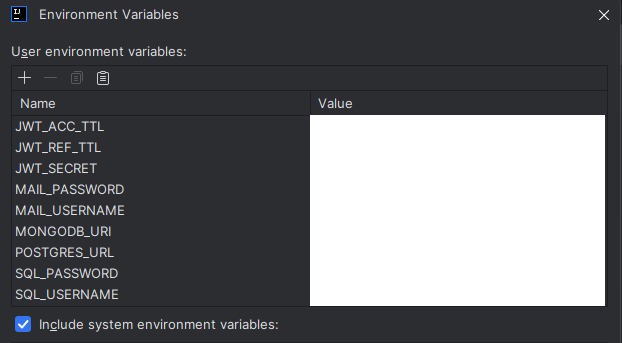
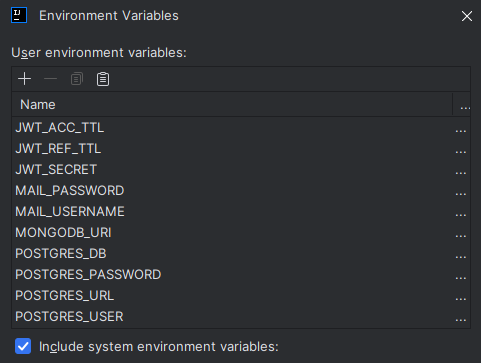
added postAuthorize, added ExceptionHandler of AccessDeniedException, fixed README.md

diff --git a/src/test/java/org/project/shopservice/controller/OrderControllerTest.java b/src/test/java/org/project/shopservice/controller/OrderControllerTest.java
@@ -33,7 +33,6 @@ import java.util.List;
 import java.util.Optional;
 import java.util.stream.Stream;
 
-import static org.junit.jupiter.api.Assertions.assertNotNull;
 import static org.mockito.Mockito.*;
 import static org.springframework.test.web.servlet.request.MockMvcRequestBuilders.*;
 import static org.springframework.test.web.servlet.result.MockMvcResultMatchers.jsonPath;
@@ -57,19 +56,13 @@ class OrderControllerTest {
 	private PasswordEncoder passwordEncoder;
 
 	private Instant now;
-	private Product product;
 	private OrderResponseDto dto;
 	private List<OrderResponseDto> orders;
 
 	@BeforeEach
 	void init() {
 		now = Instant.now();
-		product = Product.builder()
-				.id("0x1")
-				.type("test")
-				.category("testing")
-				.price(BigDecimal.valueOf(100))
-				.build();
+
 		dto = OrderResponseDto.builder()
 				.id(1L)
 				.whose("tester test")
@@ -177,92 +170,6 @@ class OrderControllerTest {
 
 	@Test
 	@SneakyThrows
-	void testGetOrder_200ExpectingIsOk_NotNullBody() {
-		when(orderService.findOrderById(eq(1L)))
-				.thenReturn(Optional.of(dto));
-		mockMvc.perform(get("/orders/{id}", 1))
-				.andExpect(status().isOk())
-				.andExpect(jsonPath("$").exists())
-				.andExpect(jsonPath("$").isNotEmpty())
-				.andExpect(jsonPath("$.id").value("1"))
-				.andExpect(jsonPath("$.whose").value("tester test"))
-				.andExpect(jsonPath("$.email").value("test@test.com"))
-				.andExpect(jsonPath("$.address").value("test address"))
-				.andExpect(jsonPath("$.total_price").value(600))
-				.andExpect(jsonPath("$.status").value("CREATED"))
-				.andExpect(jsonPath("$.items[0].amount").value(6))
-				.andExpect(jsonPath("$.items[0].productId").value("0x1"));
-	}
-	@Test
-	@SneakyThrows
-	void testGetOrder_200ExpectingIsOk_NullBody() {
-		when(orderService.findOrderById(eq(2L)))
-				.thenReturn(Optional.of(dto));
-		mockMvc.perform(get("/orders/{id}", 2))
-				.andExpect(status().isOk())
-				.andExpect(jsonPath("$").exists());
-		verify(orderService).findOrderById(eq(2L));
-		assertNotNull(orderService.findOrderById(2L));
-	}
-
-	@Test
-	@SneakyThrows
-	void testUpdateOrder_200ExpectingIsOk_NotNullBody() {
-		UpdateOrderDto updateOrderDto = UpdateOrderDto.builder()
-				.address("test new")
-				.build();
-		when(orderService.updateOrder(eq(1L), any(UpdateOrderDto.class)))
-				.thenReturn(Optional.of(dto.toBuilder().status("UPDATED").address(updateOrderDto.address()).build()));
-		mockMvc.perform(patch("/orders/{id}", 1)
-						.contentType(MediaType.APPLICATION_JSON)
-						.content("""
-								{
-									"address": "test new"
-								}
-								""")
-				).andExpect(status().isOk())
-				.andExpect(jsonPath("$").exists())
-				.andExpect(jsonPath("$").isNotEmpty())
-				.andExpect(jsonPath("$.id").value("1"))
-				.andExpect(jsonPath("$.whose").value("tester test"))
-				.andExpect(jsonPath("$.email").value("test@test.com"))
-				.andExpect(jsonPath("$.address").value("test new"))
-				.andExpect(jsonPath("$.total_price").value(600))
-				.andExpect(jsonPath("$.status").value("UPDATED"))
-				.andExpect(jsonPath("$.items[0].amount").value(6))
-				.andExpect(jsonPath("$.items[0].productId").value(product.getId()));
-		verify(orderService).updateOrder(eq(1L), any(UpdateOrderDto.class));
-	}
-	@Test
-	@SneakyThrows
-	void testUpdateOrder_200ExpectingIsOk_NothingChanged() {
-		when(orderService.updateOrder(eq(1L), any(UpdateOrderDto.class)))
-				.thenReturn(Optional.of(dto));
-		mockMvc.perform(patch("/orders/{id}", 1)
-						.contentType(MediaType.APPLICATION_JSON)
-						.content("""
-								{
-									"address": "",
-									"onDelete": [],
-									"updateItems": []
-								}
-								""")
-				).andExpect(status().isOk())
-				.andExpect(jsonPath("$").exists())
-				.andExpect(jsonPath("$").isNotEmpty())
-				.andExpect(jsonPath("$.id").value(dto.id()))
-				.andExpect(jsonPath("$.whose").value(dto.whose()))
-				.andExpect(jsonPath("$.email").value(dto.email()))
-				.andExpect(jsonPath("$.address").value(dto.address()))
-				.andExpect(jsonPath("$.total_price").value(dto.total_price()))
-				.andExpect(jsonPath("$.status").value(dto.status()))
-				.andExpect(jsonPath("$.items[0].amount").value(dto.items().get(0).amount()))
-				.andExpect(jsonPath("$.items[0].productId").value(dto.items().get(0).productId()));
-		verify(orderService).updateOrder(eq(1L), any(UpdateOrderDto.class));
-	}
-
-	@Test
-	@SneakyThrows
 	void testUpdateOrder_ExpectingNoSuchElementException(){
 		mockMvc.perform(patch("/orders/{id}", 2)
 				.contentType(MediaType.APPLICATION_JSON)
@@ -283,5 +190,37 @@ class OrderControllerTest {
 		mockMvc.perform(delete("/orders/{id}", 1))
 				.andExpect(status().isNoContent());
 		verify(orderService).deleteOrderById(eq(1L));
+	}
+
+	@Test
+	@SneakyThrows
+	void testGetOrder_403ExpectingForbidden_AccessDeniedException() {
+		when(orderService.findOrderById(eq(1L)))
+				.thenReturn(Optional.of(OrderResponseDto.builder().email("test").build()));
+		mockMvc.perform(get("/orders/{id}", 1))
+				.andExpect(status().isForbidden())
+				.andExpect(jsonPath("$").exists())
+				.andExpect(jsonPath("$.exceptionType").value("AccessDeniedException"))
+		;
+	}
+
+	@Test
+	@SneakyThrows
+	void testUpdateOrder_403ExpectingForbidden_AccessDeniedException() {
+
+		when(orderService.updateOrder(eq(1L), any(UpdateOrderDto.class)))
+				.thenReturn(Optional.of(OrderResponseDto.builder().email("test").build()));
+
+		mockMvc.perform(patch("/orders/{id}", 1)
+						.contentType(MediaType.APPLICATION_JSON)
+						.content("""
+								{
+									"address": "test new"
+								}
+								""")
+				).andExpect(status().isForbidden())
+				.andExpect(jsonPath("$").exists())
+				.andExpect(jsonPath("$.exceptionType").value("AccessDeniedException"));
+		verify(orderService).updateOrder(eq(1L), any(UpdateOrderDto.class));
 	}
 }

diff --git a/src/main/java/org/project/shopservice/controller/ExceptionAdviser.java b/src/main/java/org/project/shopservice/controller/ExceptionAdviser.java
@@ -5,6 +5,7 @@ import org.project.shopservice.dtos.onResponse.ErrorDto;
 import org.project.shopservice.exceptions.UserAlreadyExistException;
 import org.springframework.http.HttpStatus;
 import org.springframework.http.ResponseEntity;
+import org.springframework.security.access.AccessDeniedException;
 import org.springframework.security.core.userdetails.UsernameNotFoundException;
 import org.springframework.validation.FieldError;
 import org.springframework.web.bind.MethodArgumentNotValidException;
@@ -19,15 +20,16 @@ import java.util.NoSuchElementException;
 @RestControllerAdvice
 public class ExceptionAdviser {
 
-	//*
-	// NullPointerException
-	// IllegalArgumentException
-	// NoSuchElementException
-	// UsernameNotFoundException
-	// JwtException
-	// UserAlreadyExistException
-	// MethodArgumentNotValidException
-	// *
+	/*
+	 NullPointerException
+	 IllegalArgumentException
+	 NoSuchElementException
+	 UsernameNotFoundException
+	 JwtException
+	 UserAlreadyExistException
+	 MethodArgumentNotValidException
+	 AccessDeniedException
+	 */
 
 	@ExceptionHandler(MethodArgumentNotValidException.class)
 	public ResponseEntity<ErrorDto> handleMethodArgumentNotValidException(MethodArgumentNotValidException e) {
@@ -44,6 +46,19 @@ public class ExceptionAdviser {
 				.details(errors)
 				.build();
 		return ResponseEntity.status(HttpStatus.BAD_REQUEST)
+				.body(dto);
+	}
+	@ExceptionHandler(AccessDeniedException.class)
+	public ResponseEntity<ErrorDto> handleAccessDeniedException(AccessDeniedException e) {
+		HashMap<String, String> errors = new HashMap<>();
+
+		errors.put("message", e.getMessage());
+		ErrorDto dto = ErrorDto.builder()
+				.date(Instant.now())
+				.exceptionType("AccessDeniedException")
+				.details(errors)
+				.build();
+		return ResponseEntity.status(HttpStatus.FORBIDDEN)
 				.body(dto);
 	}
 

diff --git a/src/main/java/org/project/shopservice/controller/OrderController.java b/src/main/java/org/project/shopservice/controller/OrderController.java
@@ -17,6 +17,7 @@ import org.project.shopservice.dtos.onResponse.ErrorDto;
 import org.project.shopservice.dtos.onResponse.OrderResponseDto;
 import org.project.shopservice.services.OrderService;
 import org.springframework.http.ResponseEntity;
+import org.springframework.security.access.prepost.PostAuthorize;
 import org.springframework.security.access.prepost.PreAuthorize;
 import org.springframework.validation.annotation.Validated;
 import org.springframework.web.bind.annotation.*;
@@ -105,6 +106,7 @@ public class OrderController {
 			)
 	})
 	@GetMapping("/{id}")
+	@PostAuthorize("hasRole('ADMIN') or returnObject.body.email() == authentication.name")
 	public ResponseEntity<OrderResponseDto> getOrder(@PathVariable Long id) {
 		return ResponseEntity.ok(orderService.findOrderById(id).orElseThrow(() -> new NoSuchElementException("Order not found")));
 	}
@@ -133,6 +135,7 @@ public class OrderController {
 			)
 	})
 	@PatchMapping("/{id}")
+	@PostAuthorize("hasRole('ADMIN') or returnObject.body.email() == authentication.name")
 	public ResponseEntity<OrderResponseDto> updateOrder(@PathVariable Long id, @Validated @RequestBody UpdateOrderDto dto) {
 		return ResponseEntity.ok(orderService.updateOrder(id, dto).orElseThrow((() -> new NoSuchElementException("Order not found"))));
 	}
@@ -160,4 +163,7 @@ public class OrderController {
 		orderService.deleteOrderById(id);
 		return ResponseEntity.noContent().build();
 	}
+
+
+
 }

diff --git a/src/test/java/org/project/shopservice/controller/ExceptionAdviserIntegrationTest.java b/src/test/java/org/project/shopservice/controller/ExceptionAdviserIntegrationTest.java
@@ -25,7 +25,7 @@ import static org.springframework.test.web.servlet.result.MockMvcResultMatchers.
 @WebMvcTest({OrderController.class, ProductController.class, AuthenticationController.class})
 @ExtendWith(MockitoExtension.class)
 @AutoConfigureMockMvc(addFilters = false)
-@WithMockUser
+@WithMockUser(username = "user")
 class ExceptionAdviserIntegrationTest {
 
 	@Autowired
@@ -186,7 +186,6 @@ class ExceptionAdviserIntegrationTest {
 	@Test
 	@SneakyThrows
 	void testSignin_MethodArgumentNotValidException(){
-//		when(authService.authenticateUser(any(UserAuthDto.class))).thenReturn(null);
 		mockMvc.perform(
 						post("/auth/{endpoint}", "signin")
 								.contentType(MediaType.APPLICATION_JSON)
@@ -200,9 +199,8 @@ class ExceptionAdviserIntegrationTest {
 				.andExpect(status().isBadRequest())
 				.andExpect(jsonPath("$").hasJsonPath())
 				.andExpect(jsonPath("$.exceptionType").value("MethodArgumentNotValidException"))
-				.andExpect(jsonPath("$.details..email").value("Email is empty!"))
+				.andExpect(jsonPath("$.details..email").exists())
 				.andExpect(jsonPath("$.details..password").exists())
 		;
 	}
-
 }

diff --git a/src/main/java/org/project/shopservice/services/UserService.java b/src/main/java/org/project/shopservice/services/UserService.java
@@ -7,9 +7,12 @@ import lombok.RequiredArgsConstructor;
 import org.project.shopservice.entities.OrderEntity;
 import org.project.shopservice.models.User;
 import org.project.shopservice.repository.UserRepository;
+import org.springframework.security.core.authority.SimpleGrantedAuthority;
 import org.springframework.security.core.context.SecurityContextHolder;
 import org.springframework.security.core.userdetails.UsernameNotFoundException;
 import org.springframework.stereotype.Service;
+
+import java.util.Collection;
 
 @Service
 @RequiredArgsConstructor
@@ -42,6 +45,7 @@ public class UserService {
 
 	public boolean canAccess(String email){
 		String username = SecurityContextHolder.getContext().getAuthentication().getName();
-		return username.equals(email);
+		Collection<SimpleGrantedAuthority> authorities = (Collection<SimpleGrantedAuthority>)    SecurityContextHolder.getContext().getAuthentication().getAuthorities();
+		return username.equals(email) || authorities.contains(new SimpleGrantedAuthority("ROLE_ADMIN"));
 	}
 }

diff --git a/src/main/java/org/project/shopservice/services/OrderService.java b/src/main/java/org/project/shopservice/services/OrderService.java
@@ -39,14 +39,7 @@ public class OrderService {
     public List<OrderResponseDto> findOrders() {
         return orderRepository.findAll().stream().map(orderMapper::toDto).toList();
     }
-/*
-* if(userService.isOwner(order.getEmail())){
-*   ...
-* } throw new NotAllowedException("You are not allowed to access to this ... ")
-*
-*
-*
- */
+
 	public OrderResponseDto createOrder(CreateOrderDto dto) {
 	    CreateOrderDto tidiedDto = dto.tidy();
 		if(CollectionUtils.isEmpty(tidiedDto.items())) throw new IllegalArgumentException("items is null");
@@ -66,7 +59,7 @@ public class OrderService {
 
     public void deleteOrderById(Long id) {
         Optional<OrderEntity> order = orderRepository.findById(id);
-        if(order.isPresent()) {
+        if(order.isPresent() && userService.canAccess(order.get().getEmail())) {
             order.get().setStatus("DELETED");
             sendTemplate(order.get(),"Order Deleted!");
             orderRepository.delete(order.get());

diff --git a/README.md b/README.md
@@ -16,6 +16,7 @@ Also, user can create order with this/these product(s) if he *sign in* or *sign 
 
 ### 2.2 How to run
 
+#### 2.2.1 Run application in Intellij IDEA
 1. You should open in Intellij IDEA File -> `New Project` -> `Project from version control`
     -> `Repository URL` -> `URL` (https://github.com/loboska1231/SimpleShopService.git) -> `Clone`
 
@@ -25,9 +26,9 @@ Also, user can create order with this/these product(s) if he *sign in* or *sign 
    ```yaml
     spring:
        datasource:
-         url: ${POSTGRES_URL}
-         username: ${SQL_USERNAME}
-         password: ${POSTGRES_URL}
+         url: ${POSTGRES_URL}/${POSTGRES_DB}
+         username: ${POSTGRES_USER}
+         password: ${POSTGRES_PASSWORD}
        data:
          mongodb:
            uri: ${MONGODB_URI}
@@ -54,17 +55,18 @@ Also, user can create order with this/these product(s) if he *sign in* or *sign 
 
 > [!WARNING]
 > You may have an error with timezone :
+> 
 > `FATAL: invalid value for parameter "TimeZone": "Europe/Kiev"`
+> 
 > All you need to do is change your timezone on PC to `UTC`
+> 
 > and then `Run application` or press `Shift+F10` again
 
-7. If you did everything correctly, you should be able to access swagger by this URL: http://localhost:8080/swagger-ui/index.html .
+6. If you did everything correctly, you should be able to access swagger by this URL: http://localhost:8080/swagger-ui/index.html .
 
-<<<<<<< HEAD
-=======
 #### 2.2.2 Run in Docker Container
 
-1. Same as point [1. from 2.2.1](#221-run-in-intellij-idea)
+1. Same as point [1. from 2.2.1](#221-run-application-in-intellij-idea)
 
 2. `Environment variables` 
 
@@ -88,8 +90,8 @@ Also, user can create order with this/these product(s) if he *sign in* or *sign 
     ```
     It still has the problem with timezone.
 
-4. Same as point [6. from 2.2.1](#221-run-in-intellij-idea)
->>>>>>> 00df49b (forgot to add images + link for point 1. from 2.2.2)
+4. Same as point [6. from 2.2.1](#221-run-application-in-intellij-idea)
+
 ## 2.3 Swagger-UI
 this URL: http://localhost:8080/swagger-ui/index.html 
     has three main endpoints 
@@ -141,11 +143,3 @@ If you didn't specify field **role**, by default it would be role `USER`.
 After all of these operations you might have `JWT` token with role `ADMIN`
 and you want to send a specific request to do something, you should put this token into
 header `AUTHORIZATION` and set value that must start with `Bearer ...` .
-
-## 3. Future plans 
-    
-* Add `.env.postgres` and `.env.mongo` file which can replace field values in [compose.yaml](/compose.yaml)
-* Check tests
-* Add `.env.java` file which can replace field values in [compose.yaml](/compose.yaml) for java docker service
-
-Over time, items will be added or removed.
